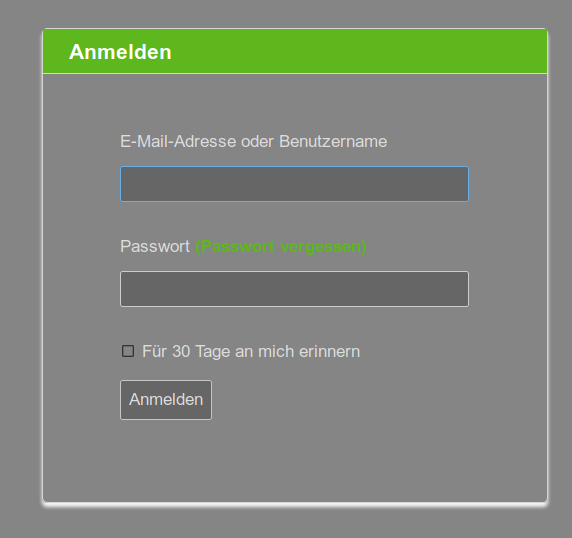
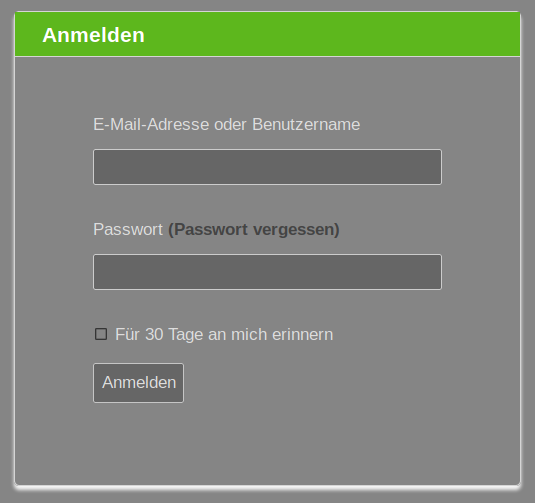
some changes in buttons and font color

diff --git a/custom.css b/custom.css
@@ -17,7 +17,7 @@ h1, h2, h3, h4, h5, h6 {
 }
 h1 { font-size:1.9em; }
 h2 { font-size:1.5em; color:#222; font-weight:bold; }
-h3 { font-size:16px; color:#322; font-weight:normal; text-decoration: underline; } /* text-decoration: underline eingefügt  */
+h3 { font-size:16px; color:#ddd; font-weight:normal; text-decoration: underline; } /* text-decoration: underline eingefügt, color von 322 auf ddd geändert (z. B. Schriftzzug Meine Bibliotheken)  */
 h4 { font-size:1.1em; color:#222; font-weight:normal; }
 h5, h6 { font-size:1em; }
 ul { list-style:none; }
@@ -25,7 +25,7 @@ dl { margin:1.5em 0; }
 dt { color:#666; margin:24px 0 2px; font-weight:normal; }
 dd { margin-bottom:.8em; color:#222; }
 a {
-    color:#5DB71D;
+    color:#444; /* Hintergrundfarbe der Schrift für Bibliotheksnamen */
     text-decoration:none;
     font-weight:bold;
 }
@@ -40,6 +40,7 @@ a.table-sort-op {
     color:inherit;
     font-weight:normal;
     display:block;
+    color: #ddd; /* original nicht besetzt - Schriftfarbe der Spaltennamen Name und Letzte Änderung */
 }
 a.table-sort-op:hover,
 a.table-sort-op:focus {
@@ -127,6 +128,7 @@ input[type=submit],
 input.submit,
 button.submit {
     margin-top:8px;
+    background: #666666; /* original nicht besetzt - Hintergrundfarbe Button */
 }
 input[type=submit]:hover,
 input[type=reset]:hover,
@@ -135,7 +137,7 @@ button:hover,
 .sf-btn-link:hover,
 .fileinput-button:hover {
     cursor:pointer;
-    background:#fff;
+    background:#5DB71D; /* original 666 - Hintergundfarbe Button bei Maus Hover */
 }
 input[type="file"] {
     border:none;
@@ -1436,7 +1438,7 @@ button.sf-dropdown-toggle:focus {
 #dir-view .repo-op,
 .wiki-top {
     padding:9px 10px;
-    background:#f2f2f2;
+    background:#666666; /* original f2f2f2 - Hintergrund der Box Meine Bibliotheken
     margin-bottom:.5em;
     border-radius:2px;
 }
@@ -1502,7 +1504,8 @@ button.sf-dropdown-toggle:focus {
 .tabnav button,
 .repo-file-list-topbar .op-btn {
     height:29px;
-    background:#fff;
+    background:#ddd; /* original fff - Hintergrund des Buttons Neue Bibliothek */
+    color: #666; /* original nicht besetzt - Schriftfarbe des Buttons Neue Bibliothek */
     line-height:17px;
 }
 /* info-bar */

diff --git a/README.md b/README.md
@@ -3,10 +3,11 @@ Dark background for the Seafile server webinterface
 
 ## Information
 
-**IMPORTANT:** The rep is in a very early alpha state. Currently it is only a mockup. But If you want to give it a try and you are using the ***custom.css*** for the light theme, be sure you have a backup of the actual ***custom.css***.
+**IMPORTANT:** The rep is in a very early alpha state. But If you want to give it a try and you are using the ***custom.css*** for the light theme, be sure you have a backup of the actual ***custom.css***.
 
-## Mockup
+## Screenshots
 
 First screenshots with dark elements.
 
-<img src="https://github.com/focmb/seafile_custom_css_green/blob/dark/screenshots/screenshot1_dark.png" alt="Login" width="300"> <img src="https://github.com/focmb/seafile_custom_css_green/blob/dark/screenshots/screenshot2_dark.png" alt="Login" width="300">
+<img src="https://github.com/focmb/seafile_custom_css_green/blob/dark/screenshots/screenshot1_dark.png" alt="Login" width="300">
+<img src="https://github.com/focmb/seafile_custom_css_green/blob/dark/screenshots/screenshot2_dark.png" alt="Login" width="300">
